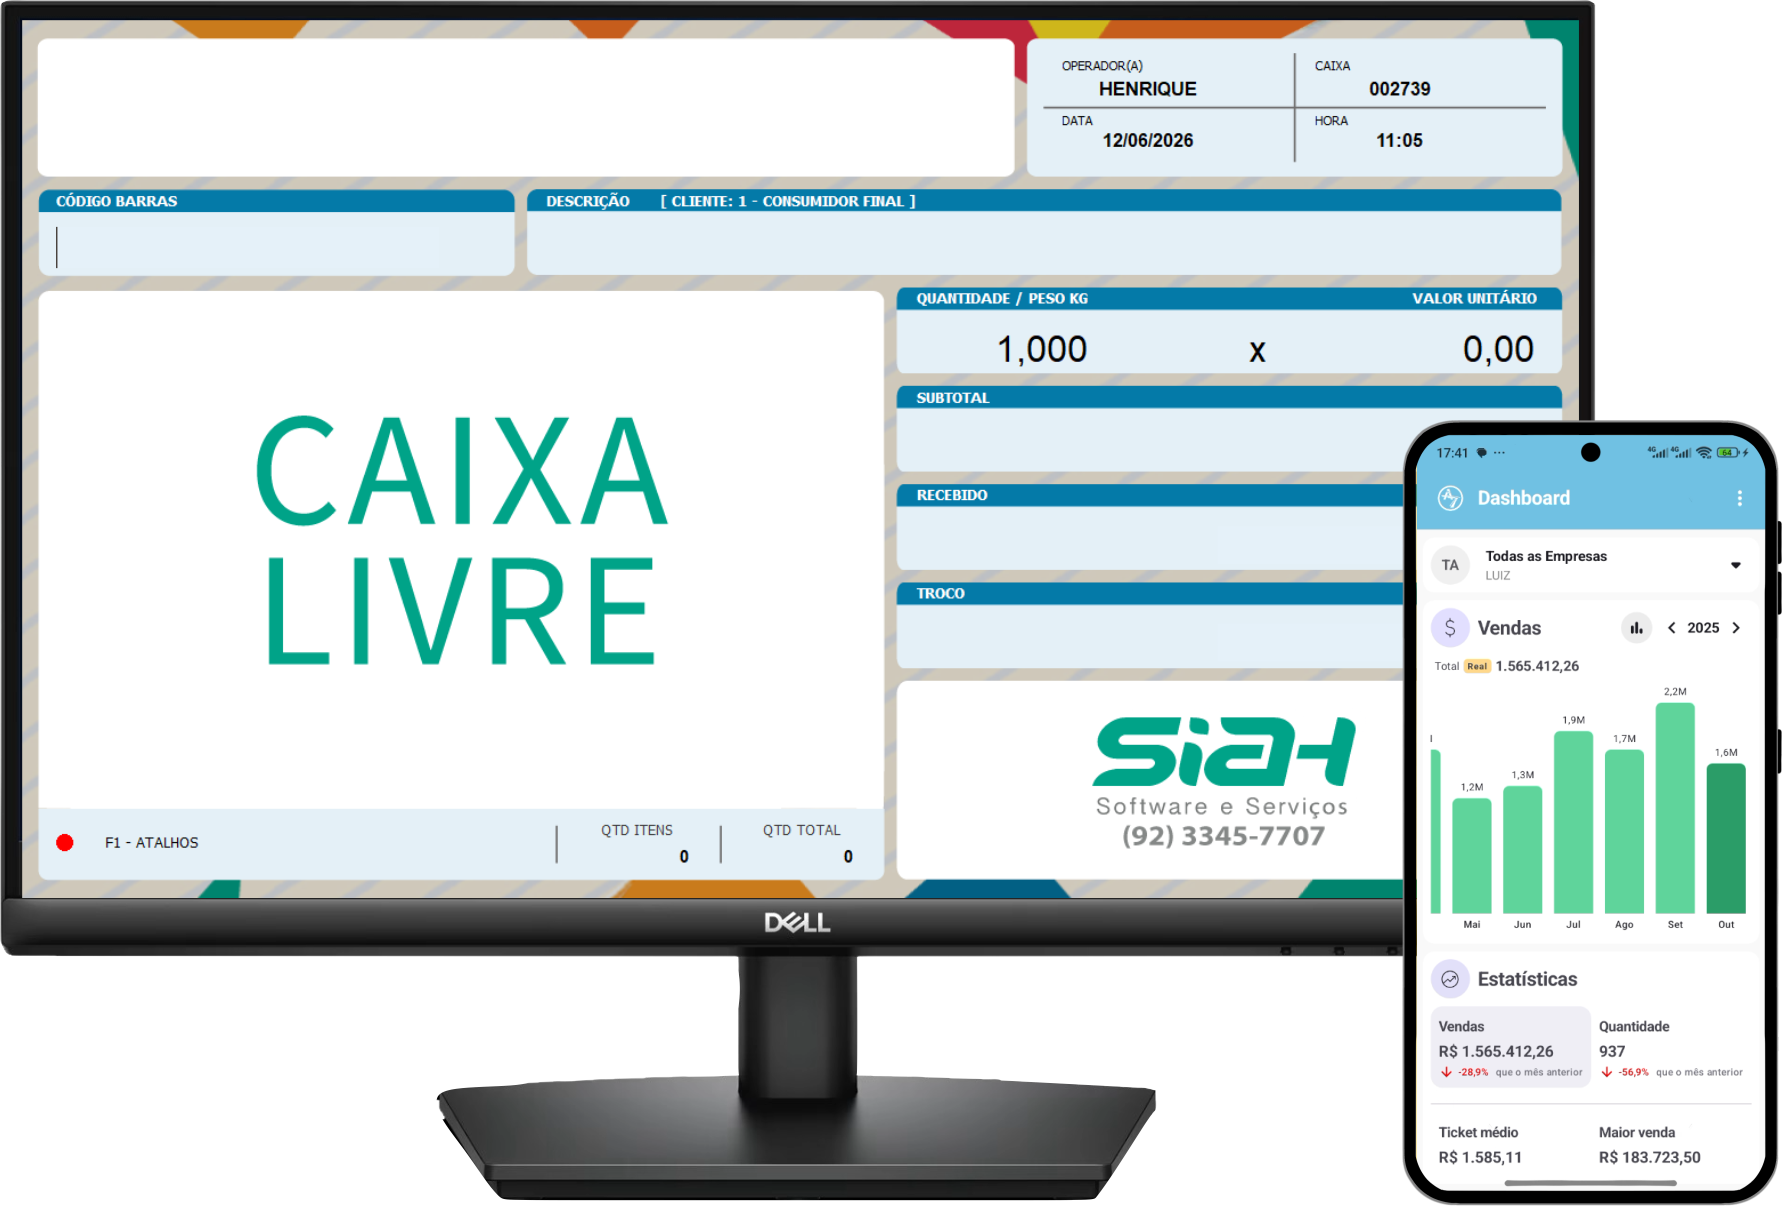
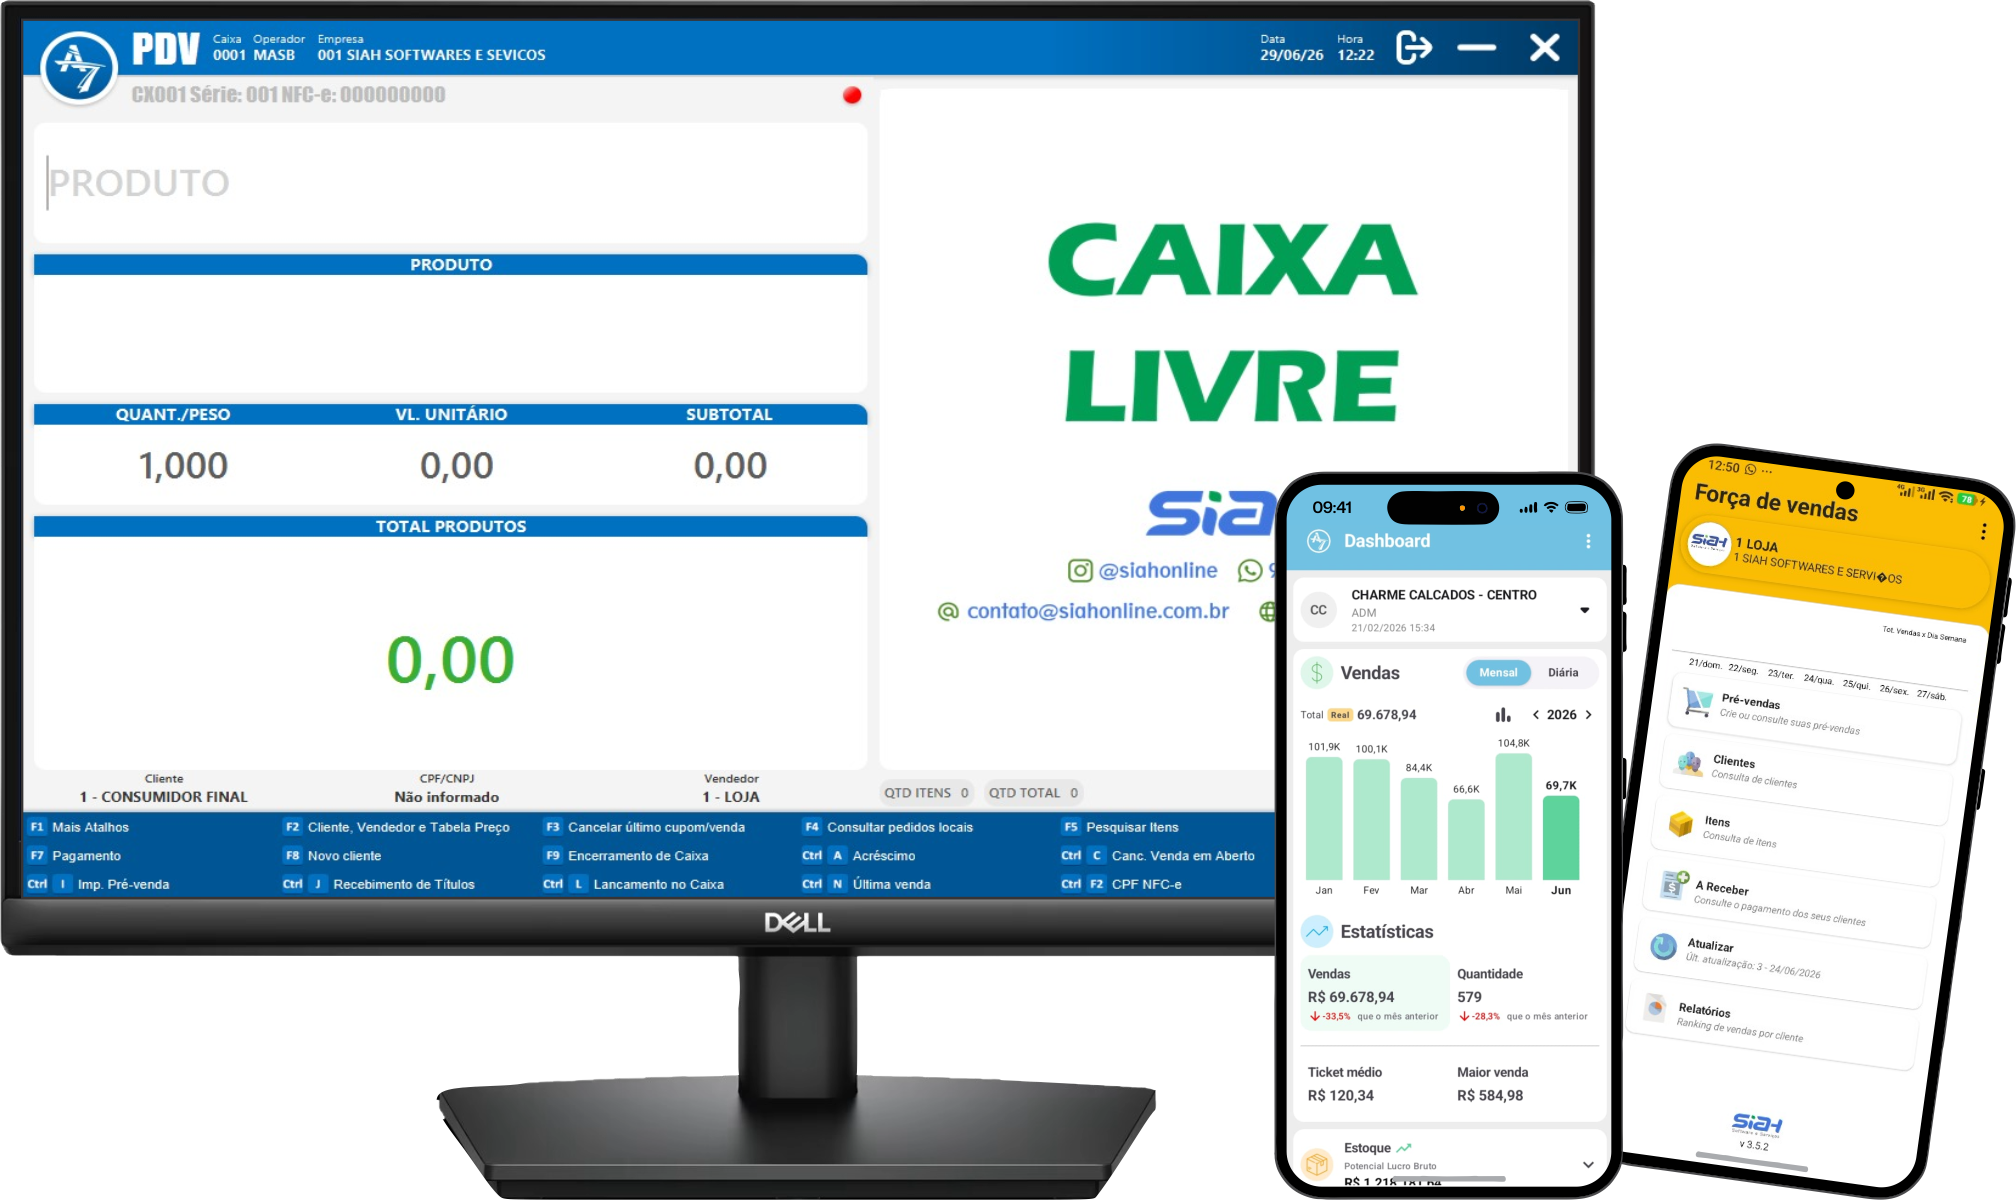
imagens_aplicacoes
divisao categorias, imagens, capas e logos

diff --git a/frontend/src/app/views/detail/detail.component.ts b/frontend/src/app/views/detail/detail.component.ts
@@ -1,6 +1,6 @@
 import { Component, OnInit, ViewChild, ElementRef, AfterViewInit } from "@angular/core";
 import { ActivatedRoute, RouterLink } from "@angular/router";
-import { NgFor, NgIf } from "@angular/common";
+import { NgFor, NgIf, NgClass } from "@angular/common";
 import { FooterComponent } from "../../shared/footer/footer.component";
 import { EmailCtaComponent } from "../../shared/email-cta/email-cta.component";
 
@@ -16,13 +16,14 @@ export interface AppDetail {
   img: string;
   cor: string;
   corDark: string;
+  tipoLayout: 'mobile3D' | 'desktop3D';
   funcionalidades: { categoria?: "desktop" | "mobile" | "web"; icon: string; titulo: string; desc: string }[];
 }
 
 @Component({
   selector: "app-detail",
   standalone: true,
-  imports: [NgFor, NgIf, RouterLink, FooterComponent, EmailCtaComponent],
+  imports: [NgFor, NgIf, NgClass, RouterLink, FooterComponent, EmailCtaComponent],
   templateUrl: "./detail.component.html",
   styleUrls: ["./detail.component.scss"],
 })
@@ -46,6 +47,7 @@ export class DetailComponent implements OnInit, AfterViewInit {
       img: "assets/images/soft/pre_vendas.webp",
       cor: "#0077cc",
       corDark: "#005fa3",
+      tipoLayout: "desktop3D",
       funcionalidades: [
         { categoria: "desktop", icon: "fas fa-file-contract", titulo: `ERP ${iconeWindows}`, desc: "Módulo de gestão empresarial completo." },
         { categoria: "desktop", icon: "fas fa-file-invoice-dollar", titulo: `Fiscal ${iconeWindows}`, desc: "Emissão e gestão de documentos fiscais." },
@@ -68,6 +70,7 @@ export class DetailComponent implements OnInit, AfterViewInit {
       img: "assets/images/soft/app-web.jpg",
       cor: "#0077cc",
       corDark: "#005fa3",
+      tipoLayout: "desktop3D",
       funcionalidades: [
         { icon: "fas fa-chart-bar", titulo: "Acesso aos Relatórios", desc: "Acesse os principais relatórios do Sistema A7 de qualquer lugar, direto do navegador." },
         { icon: "fas fa-cash-register", titulo: "Caixa de Recebimento", desc: "Consulte detalhes sobre os caixas de recebimento e movimentações financeiras." },
@@ -85,6 +88,7 @@ export class DetailComponent implements OnInit, AfterViewInit {
       img: "assets/images/soft/pre_venda_1.png",
       cor: "#00a86b",
       corDark: "#007a4d",
+      tipoLayout: "mobile3D",
       funcionalidades: [
         { icon: "fas fa-barcode", titulo: "Consulta por Código de Barras", desc: "Consulte informações do item mais rápido usando o leitor de código de barras do celular." },
         { icon: "fas fa-user-plus", titulo: "Cadastro de Clientes", desc: "Cadastre o cliente no ato da venda com integração direta ao Sistema A7." },
@@ -102,6 +106,7 @@ export class DetailComponent implements OnInit, AfterViewInit {
       img: "assets/images/soft/app-pdv.jpg",
       cor: "#2d8c2d",
       corDark: "#1f6b1f",
+      tipoLayout: "desktop3D",
       funcionalidades: [
         { icon: "fas fa-file-invoice", titulo: "Emissão de NFC-e", desc: "Cupom Fiscal para consumidor final emitido diretamente pelo PDV Touch." },
         { icon: "fas fa-bolt", titulo: "Fácil de Usar", desc: "Rapidez e praticidade ao atender seu cliente com interface touch intuitiva." },
@@ -119,6 +124,7 @@ export class DetailComponent implements OnInit, AfterViewInit {
       img: "assets/images/soft/app-expedicao.jpg",
       cor: "#0077cc",
       corDark: "#005fa3",
+      tipoLayout: "mobile3D",
       funcionalidades: [
         { icon: "fas fa-camera", titulo: "Comprovante de Entregas", desc: "Imagens, localização e assinaturas como comprovante de entrega integrado ao sistema." },
         { icon: "fas fa-boxes", titulo: "Controle de Estoque", desc: "Consultas, inventários, validade e relatórios de estoque em tempo real." },
@@ -136,6 +142,7 @@ export class DetailComponent implements OnInit, AfterViewInit {
       img: "assets/images/soft/app-navegacao.jpg",
       cor: "#c0392b",
       corDark: "#96281b",
+      tipoLayout: "desktop3D",
       funcionalidades: [
         { icon: "fas fa-ticket-alt", titulo: "Emissão de Passagens", desc: "Emissão e impressão imediata de passagens para viagens de embarcação." },
         { icon: "fas fa-boxes", titulo: "Controle de Encomendas e Cargas", desc: "Dados do emitente e destinatário, comprovação de entrega integrada." },
@@ -153,6 +160,7 @@ export class DetailComponent implements OnInit, AfterViewInit {
       img: "assets/images/soft/app-forca.jpg",
       cor: "#e6a800",
       corDark: "#b38200",
+      tipoLayout: "mobile3D",
       funcionalidades: [
         { icon: "fas fa-users", titulo: "Carteira de Clientes", desc: "Tenha acesso apenas a seus clientes com gestão da carteira de atendimento." },
         { icon: "fas fa-dollar-sign", titulo: "Recebimento de Títulos", desc: "Receba o valor da parcela do cliente diretamente pelo aplicativo." },
@@ -170,6 +178,7 @@ export class DetailComponent implements OnInit, AfterViewInit {
       img: "assets/images/soft/ecommerce.png",
       cor: "#c0392b",
       corDark: "#96281b",
+      tipoLayout: "desktop3D",
       funcionalidades: [
         { icon: "fas fa-shopping-bag", titulo: "Pedidos Online Sincronizados", desc: "Visualização de pedidos, status de pagamento, envio e entrega integrados ao A7." },
         { icon: "fas fa-sync", titulo: "Catálogo de Produtos Atualizado", desc: "Dados dos produtos atualizados de acordo com o Sistema A7 — descrição, preço e disponibilidade." },

diff --git a/frontend/src/app/views/detail/detail.component.scss b/frontend/src/app/views/detail/detail.component.scss
@@ -79,30 +79,52 @@
 
   img {
     width: 100%;
-    max-width: 480px;
-    max-height: 560px;
     height: auto;
     object-fit: contain;
     display: block;
-    transform: translateY(130px);
-    //transform: rotate(15deg); 
-    filter: drop-shadow(15px 15px 30px rgba(0, 0, 0, 0.342));
     z-index: 20;
-    transition: transform 0.3s ease;
+    filter: drop-shadow(0px 15px 30px rgba(0, 0, 0, .25));
   }
 
-  @media(max-width: 768px) {
-    max-width: 280px;
-    margin: -40px auto 0;
-    overflow: visible !important;
-    
+  &.layout-mobile {
     img{
-      max-height: 420px;
-      transform: translateY(110px);
-      // transform: rotate(15deg);
+      max-width: 440px;
+      max-height: 540px;
+      transform: translateY(130px) rotate(15deg);
+    }
+
+    @media(max-width: 768px) {
+      max-width: 250px;
+      margin: -40px auto 0;
+      overflow: visible !important;
+
+      img{
+        max-height: 380px;
+        transform: translateY(100px) rotate(15deg);
+      }
+    }
+  }
+  &.layout-desktop {
+    img{
+      max-width: 580px;
+      max-height: 480px;
+      transform: translateY(120px) rotate(0);
+    }
+
+    @media(max-width: 768px) {
+      max-width: 420px;
+      margin: 2rem auto 0;
+      overflow: visible !important;
+
+      img{
+        max-height: 300px;
+        transform: translateY(80px) rotate(0) !important;
+      }
     }
   }
 }
+
+
 
 // ── FUNCIONALIDADES ───────────────────────────────────────
 .app-func-sec {

diff --git a/frontend/src/app/views/detail/detail.component.html b/frontend/src/app/views/detail/detail.component.html
@@ -12,7 +12,7 @@
         </a>
       </div>
 
-      <div class="app-hero__img">
+      <div class="app-hero__img" [ngClass]="app.tipoLayout === 'mobile3D' ? 'layout-mobile' : 'layout-desktop'">
         <img [src]="app.img" [alt]="app.title">
       </div>
 
